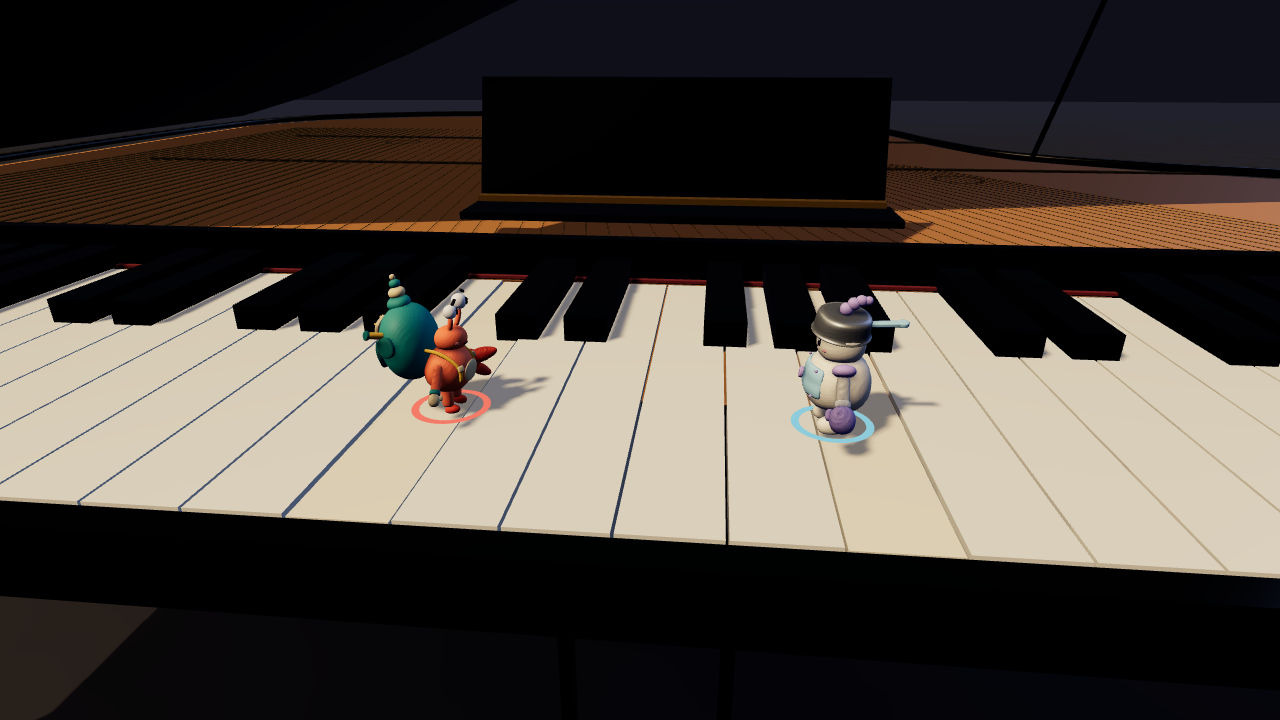
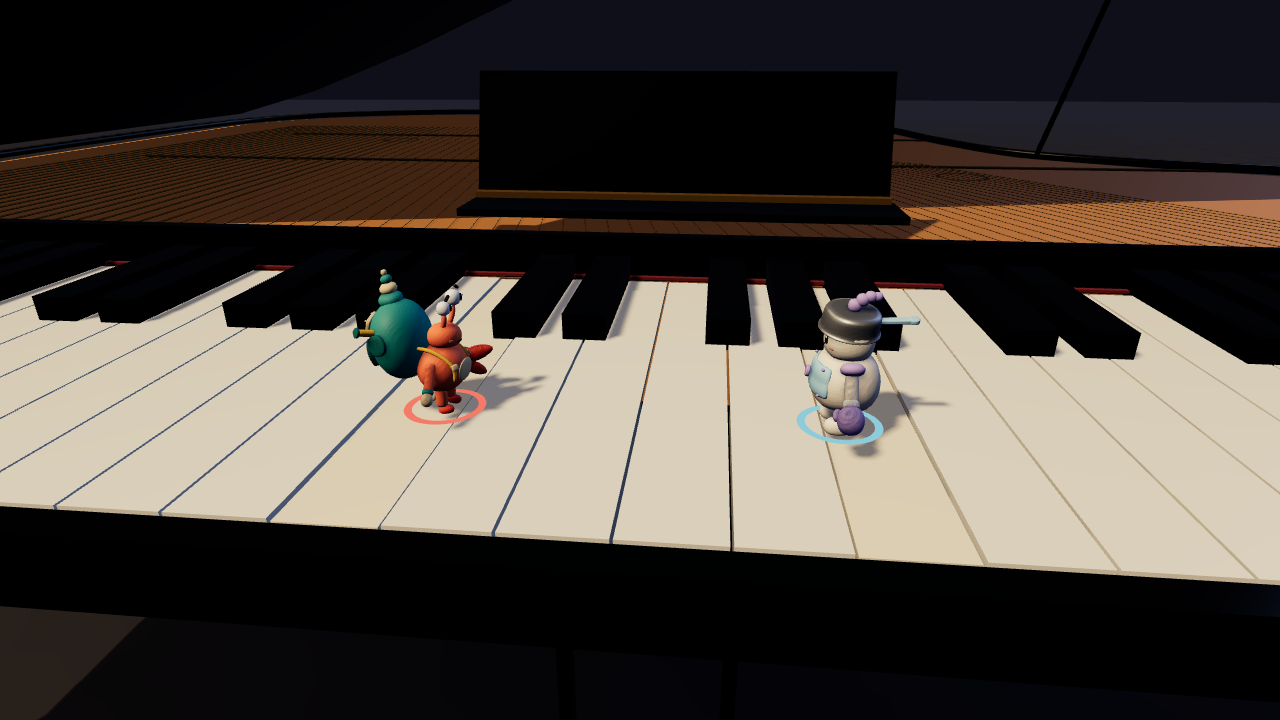
Replace green atmosphere with natural scattering sky and blue-gray haze

diff --git a/host/src/environment.js b/host/src/environment.js
@@ -1,16 +1,17 @@
 import * as T from 'three';
+import { Sky } from 'three/addons/objects/Sky.js';
 
 // Shared families keep the PMREM cache bounded even when cycling all hazard maps.
-const yard = { zenith:'#668eac', horizon:'#e5dec0', lower:'#717d68', fog:'#d4d8bc', fogRange:[36,100], sun:[-18,28,16], key:'#fff0cd', power:2.4, fill:'#b9d5ea', bounce:'#787b54', ambient:.65, exposure:1.05, environment:.65 };
-const city = { ...yard, zenith:'#527f9d', horizon:'#edc8a0', lower:'#435c68', fog:'#91a6a8', fogRange:[65,185], sun:[-24,23,-18], key:'#ffe0ad', power:2.8, fill:'#afcfe8', bounce:'#526777', ambient:.65, exposure:1.05, environment:.75 };
+const yard = { zenith:'#668eac', horizon:'#e5dec0', lower:'#717d68', fog:'#c3d3e4', fogRange:[36,100], sun:[-18,28,16], key:'#fff0cd', power:2.4, fill:'#b9d5ea', bounce:'#737d88', ambient:.65, exposure:1.05, environment:.65 };
+const city = { ...yard, zenith:'#527f9d', horizon:'#edc8a0', lower:'#435c68', fog:'#bdcbdc', fogRange:[65,185], sun:[-24,23,-18], key:'#ffe0ad', power:2.8, fill:'#afcfe8', bounce:'#526777', ambient:.65, exposure:1.05, environment:.75 };
 export const ENVIRONMENTS = {
   yard,
   skyline:city,
-  twinspire:{...city, horizon:'#f0cfb6', fog:'#9eafb9', sun:[-28,25,-12]},
-  station:{...city, zenith:'#658da8', horizon:'#d8dfd6', key:'#fff1db', sun:[-16,32,18], power:2.3},
-  mountain:{...yard, zenith:'#6faaa9', horizon:'#d7e3cd', lower:'#718e88', fog:'#bfd2c6', fogRange:[40,140], sun:[-18,30,-14], key:'#fff0cb', power:2.1, bounce:'#648376', environment:.7},
+  twinspire:{...city, horizon:'#f0cfb6', fog:'#c7d2e2', sun:[-28,25,-12]},
+  station:{...city, zenith:'#658da8', horizon:'#e2e8f0', key:'#fff1db', sun:[-16,32,18], power:2.3},
+  mountain:{...yard, zenith:'#779fc6', horizon:'#e0e8ef', lower:'#7f94ac', fog:'#cbd9e7', fogRange:[40,140], sun:[-18,30,-14], key:'#fff0cb', power:2.1, bounce:'#798b91', environment:.7},
   ice:{...yard, zenith:'#709fc5', horizon:'#e3eff3', fog:'#d3e6ed', key:'#f1f7ff', bounce:'#7a9aa9', environment:.85},
-  industrial:{...yard, zenith:'#627d95', horizon:'#d8c9b0', fog:'#b8bcb4', bounce:'#666c71', environment:.7},
+  industrial:{...yard, zenith:'#627d95', horizon:'#d8c9b0', fog:'#c6ceda', bounce:'#666c71', environment:.7},
   piano:{...yard, zenith:'#111725', horizon:'#252633', lower:'#14131c', fog:'#20212c', fogRange:[160,400], sun:[-22,40,24], key:'#ffe2b0', power:2.8, fill:'#a0b8ec', bounce:'#49405a', ambient:.5, exposure:1, environment:.65, indoor:true},
 };
 export const QUALITY = { low:{pixelRatio:1,shadowSize:1024}, medium:{pixelRatio:1.5,shadowSize:2048}, high:{pixelRatio:2,shadowSize:2048} };
@@ -18,9 +19,9 @@ export function environmentKey(id) {
   return ENVIRONMENTS[id] ? id : ['lava','conveyor'].includes(id) ? 'industrial' : 'yard';
 }
 
-// Art-directed HDR gradient: a broad key lobe makes readable reflections, while the
-// small disc shares the directional light's direction. No full-screen postprocessing.
-function skyMaterial(p, visible = false) {
+// Piano keeps a dark studio backdrop; outdoor maps use r180's analytic
+// Rayleigh/Mie scattering sky, shared by the visible dome and cached PMREM.
+function indoorMaterial(p, visible = false) {
   return new T.ShaderMaterial({ side:T.BackSide, depthWrite:false, fog:false,
     uniforms:{displayHaze:{value:visible?1:0},zenith:{value:new T.Color(p.zenith)},horizon:{value:new T.Color(p.horizon)},haze:{value:new T.Color(p.fog)},lower:{value:new T.Color(p.lower)},sunColor:{value:new T.Color(p.key)},sunDirection:{value:new T.Vector3(...p.sun).normalize()},indoor:{value:p.indoor?1:0}},
     vertexShader:'varying vec3 direction; void main(){direction=position; gl_Position=projectionMatrix*modelViewMatrix*vec4(position,1.);}',
@@ -37,6 +38,42 @@ function skyMaterial(p, visible = false) {
         #include <tonemapping_fragment>
         #include <colorspace_fragment>
       }` });
+}
+
+function skyMaterial(p, visible = false) {
+  if(p.indoor)return indoorMaterial(p,visible);
+  const shader=Sky.SkyShader,uniforms=T.UniformsUtils.clone(shader.uniforms);
+  uniforms.turbidity.value=p===ENVIRONMENTS.mountain?3:2;
+  uniforms.rayleigh.value=2.2;
+  uniforms.mieCoefficient.value=.003;
+  uniforms.mieDirectionalG.value=.78;
+  uniforms.sunPosition.value=new T.Vector3(...p.sun).normalize().multiplyScalar(450000);
+  uniforms.radianceScale={value:visible?1:.35};
+  uniforms.horizonColor={value:new T.Color(p.fog)};
+  uniforms.groundColor={value:new T.Color(visible?p.fog:'#68798d')};
+  const fragmentShader=shader.fragmentShader
+    .replace('uniform float mieDirectionalG;', `uniform float mieDirectionalG;
+      uniform vec3 horizonColor,groundColor; uniform float radianceScale;
+      float cloudNoise(vec2 p){
+        vec2 i=floor(p),f=fract(p);f=f*f*(3.-2.*f);
+        vec2 k=vec2(127.1,311.7);
+        float a=fract(sin(dot(i,k))*43758.5453);
+        float b=fract(sin(dot(i+vec2(1,0),k))*43758.5453);
+        float c=fract(sin(dot(i+vec2(0,1),k))*43758.5453);
+        float d=fract(sin(dot(i+vec2(1,1),k))*43758.5453);
+        return mix(mix(a,b,f.x),mix(c,d,f.x),f.y);
+      }`)
+    .replace('gl_FragColor = vec4( retColor, 1.0 );', `
+      // Thin, broken high clouds: three noise octaves, no raymarch or extra pass.
+      vec2 cloudUV=direction.xz/max(direction.y+.22,.08)*2.4;
+      float cloud=cloudNoise(cloudUV)*.57+cloudNoise(cloudUV*2.03)*.29+cloudNoise(cloudUV*4.07)*.14;
+      cloud=smoothstep(.57,.79,cloud)*smoothstep(.015,.18,direction.y)*.38;
+      retColor=mix(retColor,vec3(.88,.92,.98),cloud);
+      // Match distant fog below the horizon, without the old olive lower dome.
+      retColor=mix(horizonColor,retColor,smoothstep(-.035,.14,direction.y));
+      retColor=mix(retColor,groundColor,smoothstep(.08,.65,-direction.y));
+      gl_FragColor=vec4(retColor*radianceScale,1.);`);
+  return new T.ShaderMaterial({uniforms,vertexShader:shader.vertexShader,fragmentShader,side:T.BackSide,depthWrite:false,fog:false});
 }
 
 // Fit in light space, once per arena identity. Include full piano case, moving

diff --git a/host/src/render.js b/host/src/render.js
@@ -54,7 +54,7 @@ export function createRenderer(container, onCombatRig = () => {}) {
     const twinspire=arena.id==='twinspire';
     const rooftop = arena.id === 'skyline'||twinspire||arena.id==='station', mountain = arena.id === 'mountain', elevated = rooftop || mountain;
     ground.position.y = twinspire ? -39 : piano ? -24 : mountain ? -40 : rooftop ? -24 : -6;
-    ground.material.color.set(piano ? '#292830' : mountain ? '#93afa0' : rooftop ? '#455e61' : '#bac797');
+    ground.material.color.set(piano ? '#292830' : mountain ? '#879bb1' : rooftop ? '#66798d' : '#96a7ba');
     cameraDirection.fromArray(elevated ? ROOFTOP_CAMERA_DIRECTION : CAMERA_DIRECTION);
     const framingOptions=piano?{minDistance:7,padding:1.08}:undefined;
     const framing = frameFighters(fighters, camera.aspect, undefined, elevated, framingOptions);

diff --git a/docs/visual-upgrade-validation.md b/docs/visual-upgrade-validation.md
@@ -4,8 +4,8 @@ Implemented on `Glioh/visual-environment-upgrade`, in the separate worktree. The
 
 ## Rendering changes
 
-- Eight coherent atmosphere families cover all fourteen maps. Skyline establishes warm directional light against cool fill and layered city haze; Twinspire and Station have related but distinct lighting. Cloudpeak has jade atmosphere and low valley mist. Piano uses a dark auditorium, warm stage key, cool fill and indoor reflection softboxes. Ice and industrial arenas have their own palettes.
-- A camera-centered, 220m gradient dome stays inside the existing 500m far plane. The sun lobe and primary light share a direction. Horizon haze blends into fog; the distant ground extends beyond the visible horizon.
+- Eight coherent atmosphere families cover all fourteen maps. Skyline establishes warm directional light against cool fill and layered city haze; Twinspire and Station have related but distinct lighting. Cloudpeak has cool alpine atmosphere and low valley mist. Piano uses a dark auditorium, warm stage key, cool fill and indoor reflection softboxes. Ice and industrial arenas have their own palettes.
+- A camera-centered, 220m dome uses the installed r180 Sky addon's Rayleigh/Mie atmospheric scattering shader outdoors, with thin procedural high clouds and a physical sun halo aligned to the primary light. Horizon haze and distant ground use blue-gray tones rather than olive green. The dome stays inside the existing 500m far plane. Piano retains its separate dark indoor gradient.
 - A dedicated lighting scene supplies one lazy, cached 128px PMREM capture per family. It contains no fighters, gameplay geometry or animated mist. Piano gets warm/cool emissive reflection cards, without extra runtime lights. Cached targets and generator have an explicit disposal path through `draw.dispose()`.
 - Explicit ACES filmic tone mapping and sRGB output, with exposure calibrated alongside reduced hemisphere illumination. One PCFSoft shadow light remains. Its orthographic camera fits layout corners in light space, allowing jump clearance, moving platform travel, Piano's full case and both Twinspire roofs. Projection stays fixed during play, avoiding camera-follow shimmer; bias and normal bias are tuned conservatively.
 - Fighter metalness and roughness retain their authored values. A shared 64px linear data texture adds restrained roughness variation to suitable matte surfaces; authored textures, lacquer, alpha and sightline materials remain intact. Ice, conveyor steel and bronze gong materials have distinct responses. Station signals now emit their existing warning colors.
@@ -28,7 +28,7 @@ Headless installed Chrome, 1280 x 720, DPR 1, default quality:
 | Cloudpeak | 225 | 242 | 50,268 | 51,504 |
 | Piano | 238 | 243 | 54,245 | 55,253 |
 | Station | 389 | 392 | 51,114 | 52,098 |
-| Twinspire | 831 | 836 | 56,586 | 57,594 |
+| Twinspire | 831 | 832 | 56,586 | 57,546 |
 
 These are `renderer.info.render` counts for the sampled screen render, not GPU timings or totals including all shadow passes. Counts can vary slightly as the smoothed camera settles and sightline materials fade. The visible sky adds one draw; Cloudpeak's soft mist replaces cheaper opaque banks. Skyline's additional triangles are batched windows and roof detail, not additional scenery draws.
 
@@ -74,4 +74,8 @@ npm test
 
 Captures and reports are written to ignored `.visual-validation/before` and `.visual-validation/after`. The harness fails on browser errors, missing host canvas, or growth in warmed environment/texture counts. The baseline source interception applies to the isolated rendering harness; the separate real-host startup smoke uses current code.
 
-Implementation uses installed Three.js **0.180.0**. `Sky.js` and `PMREMGenerator.js` were inspected locally; the custom art-directed dome avoids newer Sky uniform assumptions, and PMREM uses r180's `fromScene(scene, sigma, near, far, { size })` API. No Three.js upgrade or new production dependency is required.
+Implementation uses installed Three.js **0.180.0**. `Sky.js` and `PMREMGenerator.js` were inspected locally; the outdoor shader extends the installed Sky shader and uses its actual r180 uniforms, and PMREM uses r180's `fromScene(scene, sigma, near, far, { size })` API. No Three.js upgrade or new production dependency is required.
+
+## Sky revision
+
+Replaced the original green/olive gradient outdoors with analytic atmospheric scattering, blue-gray horizon fog and neutral distant ground. Thin clouds use three noise octaves in the same sky draw. PMREM uses the same sky, with separately calibrated radiance to preserve warm direct-light contrast. Piano remains indoors. `npm test` still passes all 119 tests; the all-map browser harness was rerun with refreshed captures and bounded cache checks.
